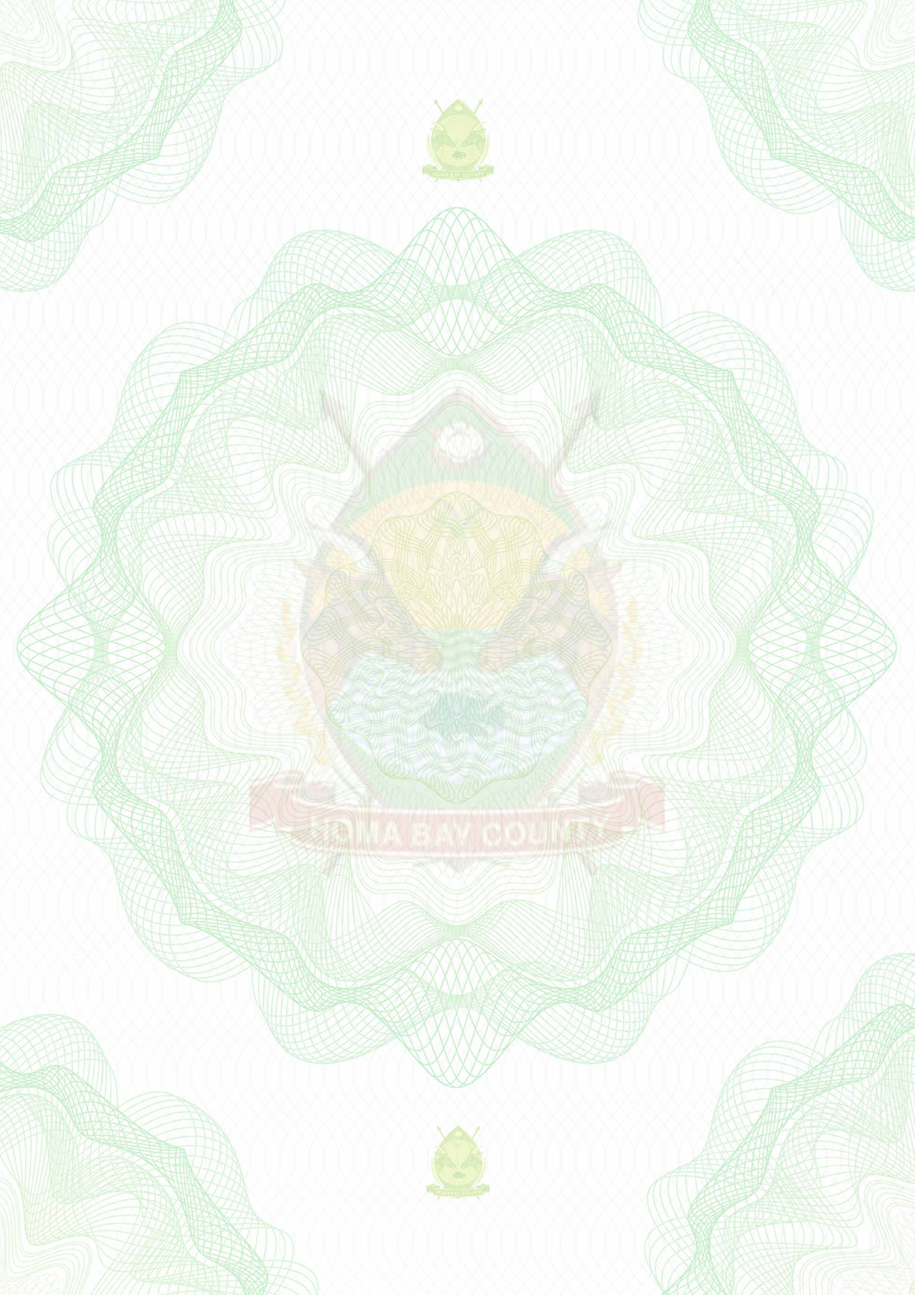
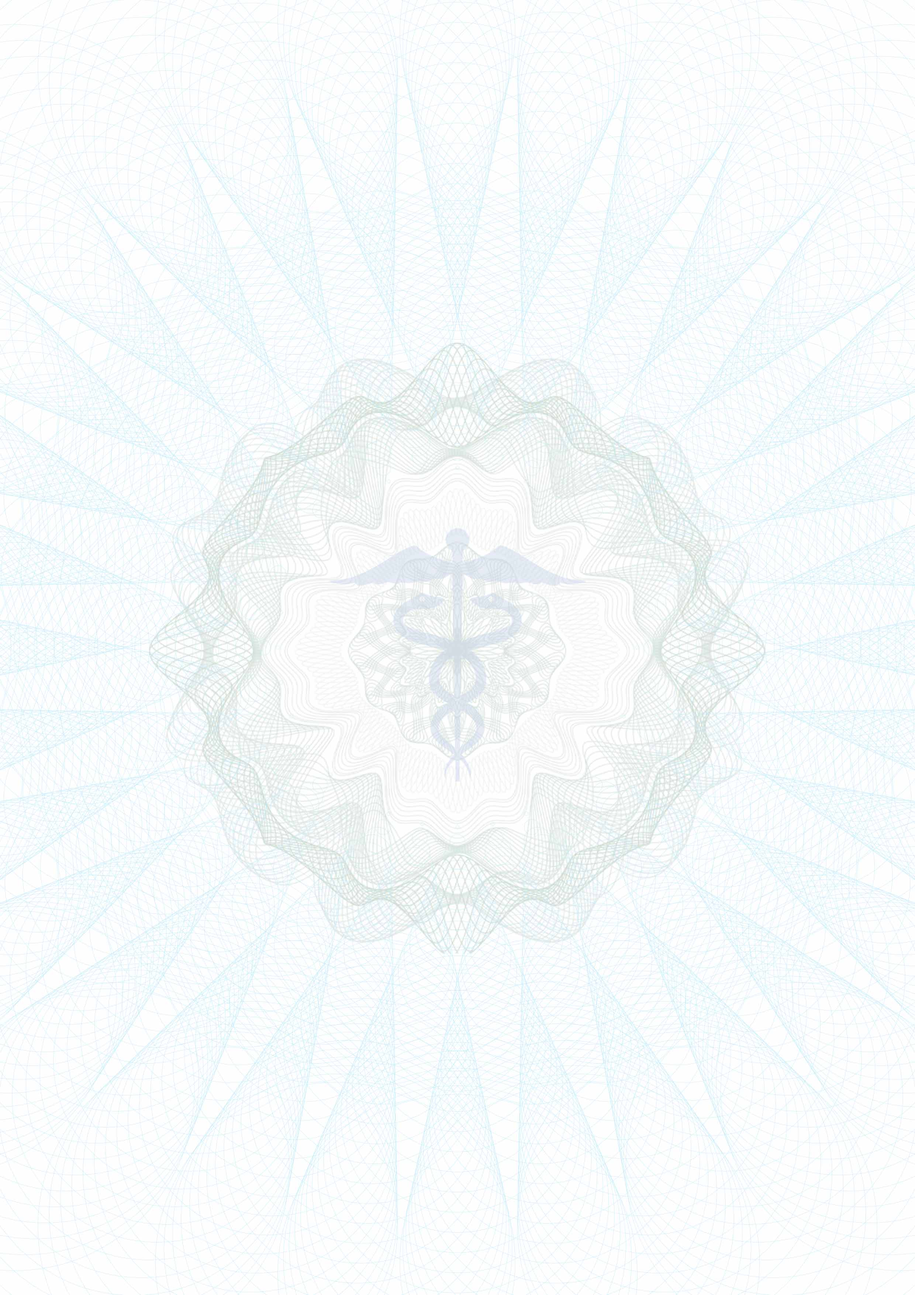
kelvin: medical examination certificate

diff --git a/PrintDocs/Medical examination/medical-examination.html b/PrintDocs/Medical examination/medical-examination.html
@@ -578,7 +578,7 @@
             /* margin-bottom: 0.5cm; */
             box-shadow: 0 0 0.5cm rgba(0, 0, 0, 0.5);
             /*    background: repeating-linear-gradient( 45deg, #039840, #039840 10px, #067332 10px, #067332 20px );*/
-            background: url("assets/fire-bg.jpg");
+            background: url("assets/bg-image.jpg");
             background-position: bottom;
             background-size: cover;
         }
@@ -972,78 +972,35 @@
             </header>
 
             <div class="cert-heading lora-heading my-3" style="padding-top: 0px !important; margin-top: 0.2in !important; text-align: center; display: flex; flex-flow: column; align-items: center; justify-content: center;">
-                <h1 class="" style="font-family: 'Fondamento', cursive !important; font-size: 50px; margin: 0px; padding: 0px; width: 200mm; margin-top: 5mm; margin-bottom: 5mm; "><strong style=" font-family: 'Fondamento', cursive !important; ">Fire Safety And Rescue Compliance Certificate</strong></h1>
-                <h6 class=" " style=" margin-top: 0px; padding-top: 0px; font-size: 18px; font-weight: 400;font-family:'Pridi', serif !important;; margin-bottom: 0.2in; padding-bottom: 0px; text-transform: uppercase;">For The Year 2023</h6>
+                <h6 class=" " style=" margin-top: 0px; padding-top: 0px; font-size: 18px; font-weight: 400;font-family:'Pridi', serif !important;; margin-bottom: 0.2in; padding-bottom: 0px; text-transform: uppercase;">
+FOOD, DRUGS AND CHEMICAL SUBSTANCES ACT (Cap 254)</h6>
+
+                <h1 class="" style="font-family: 'Fondamento', cursive !important; font-size: 66px; margin: 0px; padding: 0px; width: 200mm; margin-top: 5mm; margin-bottom: 5mm; "><strong style=" font-family: 'Fondamento', cursive !important; ">Certificate Of Medical Examination</strong></h1>
+                <h6 class=" " style=" margin-top: 0px; padding-top: 0px; font-size: 18px; font-weight: 400;font-family:'Pridi', serif !important;; margin-bottom: 0.2in; padding-bottom: 0px; text-transform: uppercase;">Form D</h6>
             </div>
             <section class="container p-3 m-0">
                 <div class="row">
-                    <div class="col-12 ">
-                        <p class="text-center" style="text-align: center;"><span class=" " style="text-transform: uppercase; margin-bottom: 3mm;"><span> County Government of Homa Bay grants this Fire Safety & Rescue Compliance Certificate to</span></P>
+
+                   <div class="col-12">
+                    <div style="display: flex; justify-content: center; align-items: center; flex-flow: column;">
+                        <p class=" col-12 p-0 spacing-1 line-height-2 mt-4 e " style="text-align: center; margin-bottom: 0.2in; font-size: 16px !important; font-weight: 600; " id="demo ">
+                            I hereby certify that I have  on this day examined 
+                            <span class="content-field" style="text-transform: uppercase; font-weight: 800;"> Mr jane doe</span> 
+                            and that in my opinion he/she is fit under the food, drug and chemical substances (Food Hygiene) Regulations to work at
+                            <span class="content-field" style="text-transform: uppercase; text-decoration: underline; font-weight: 800;"> Shivling Supermarket </span> 
+                            Plot NO. <strong class="content-field " style="text-transform: uppercase; font-weight: 800; text-decoration: underline;">203/123/1234. </strong>
+                            Physical Address 
+                            <span class="content-field" style="text-transform: uppercase; text-decoration: underline; font-weight: 800;">Athi river. </span>
+                        </p>
+
+                        <p class=" col-12 p-0 spacing-1 line-height-2 mt-4 e " style="text-align: center; margin-bottom: 0.2in; font-size: 16px !important; font-weight: 600; " id="demo ">
+                            This certificate is valid for <span class="content-field" style="text-transform: uppercase; text-decoration: underline; font-weight: 800;">6 Months</span> with effect from <span class="content-field" style="text-transform: uppercase; text-decoration: underline; font-weight: 800;">12 Jan 2024.</span>
+                        </p>
+                        
+
+                        <img src="assets/ornament.svg" style="width: 170px; margin-bottom: 0.2in; margin-top: 0.2in;" />
                     </div>
-                    <div class="col-10 pr-0">
-                        <table class="table table-bordered mb-0">
-                            <tbody>
-                                <!--the name to the busibness-->
-                                <tr>
-                                    <td>
-                                        <p class="p-0 m-0 green">Business/Company Name</p>
-                                        <p class="text-uppercase libre-bold m-0 p-0 title-font" style="font-weight: 500; font-size: 18px;">Shivling SuperMarket</p>
-                                    </td>
-                                    <td>
-                                        <p class="p-0 m-0 green">PO BOX</p>
-                                        <p class="text-uppercase libre-bold m-0 p-0 title-font" style="font-weight: 500; font-size: 18px;">123 Mbita </p>
-                                    </td>
-                                    
-                                </tr>
-
-                                <tr>
-                                    <td colspan="2">
-                                        <span class="green">Physical Address: </span>
-                                        <span class="text-uppercase libre-bold m-0 p-0 title-font" style="font-weight: 500; font-size: 18px;">Along Mbita Road</span>
-                                    </td>
-
-                                </tr>
-
-                                <!--the KRA pin-->
-                                <tr>
-                                    <td><span class="green">Certificate Business Category: </span><span class="libre-bold" style="font-weight: 500; font-size: 18px;">SuperMarket</span></td>
-                                    <td><span class="green">Amount Paid: </span><span class="libre-bold" style="font-weight: 500; font-size: 18px;"> KES 3,000</span></td>
-                                    
-                                </tr>
-
-                                <tr>
-                                    <td class="other-num serial-init" colspan="2"><span class="green">Amount in words </span> <span style="font-family: 'Pridi', serif; font-weight: 400;" style="font-weight: 500; font-size: 18px;"> *** Two thousand two hundred ***</span></td>
-                                </tr>
-
-                              
-
-                            </tbody>
-                        </table>
                     </div>
-
-
-                    <div class="col-2 mb-1 pl-0">
-                        <div class="locence-no max-height d-flex h-100 justify-content-center align-items-center align-content-center p-2 flex-column">
-                            <p class="serial-init green">Business ID</p>
-                            <p> <span class="serial-init font-22"><span class="d-none">BID</span> <span class="serial title-font" style="font-family: 'Pridi', serif !important; font-weight: 600;">HTY67890</span></span>
-                            </p>
-                        </div>
-                    </div>
-
-                    
-                    <div class="col-12 " style="margin-top: 10mm;">
-                        <p class="text-center" style="text-align: left;"><span class=" " style="text-transform: uppercase; margin-bottom: 0mm; margin-top: 6mm;"><span> Fire Safety measures in place</span></P>
-                    </div>
-
-                    <div class="" style="text-transform: capitalize;  font-family: 'Pridi', serif !important; font-weight: 600;">
-                        <ol style="margin-top: 0px;" type="1">
-                            <li type="1">Provided an escape route at the rear.</li>
-                            <li type="1">General House Keeping is good</li>
-                            <li type="1">Electrical installations done to acceptable standards</li>
-                            <li type="1">Provided three gas cylinders</li>
-                        </ol>
-                    </div>
-
                     <div class="col-12 mt-4">
                         <table class="table table-bordered">
                             <tbody>
